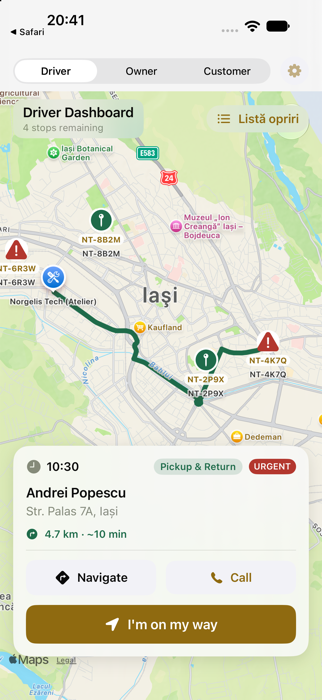
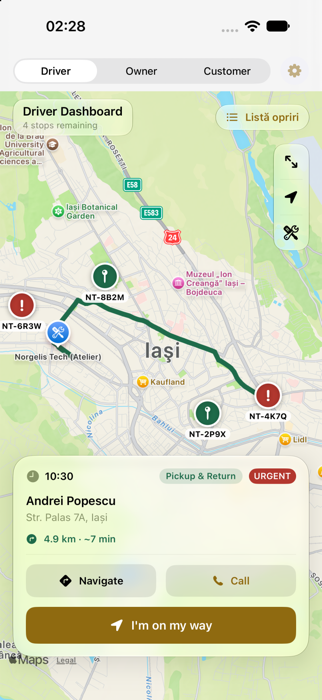
Document the owner console and refresh screenshots

diff --git a/ios/README.md b/ios/README.md
@@ -105,12 +105,39 @@ ios/
 ## Driver navigation
 
 - The map draws the real driving route (Apple Maps directions) from the workshop to the next stop, or from the driver's position to the stop in progress. The card shows distance and travel time.
+- The bottom card is native Liquid Glass on iOS 26 and later and a light material before that. Stop pins are round: green for a stop, red with an exclamation mark when urgent, grey with a check when done.
+- Three buttons under the top bar fit the route, center on the driver or center on the workshop.
 - **Navigate** opens a menu with Waze and Apple Maps. Waze starts turn-by-turn through `waze://`. When Waze is not installed it opens the `waze.com/ul` link, which offers the App Store. `LSApplicationQueriesSchemes` lists `waze` so the app can check for it.
 - Navigate is on the map card, on the active trip card and in the stop detail sheet.
 
+## Owner console
+
+The Owner role opens the workshop console. It mirrors the `/admin` dashboard on the site, including the workshop features from PR 6.
+
+| Tab | What it does |
+| --- | --- |
+| Today | Counts (active, to hand back, visits, pickups), today's schedule, today's pickups, jobs waiting for hand-back, the driver card and a New walk-in button. |
+| Jobs | Search, status chips (with "to hand back" for ready and unrepairable), kind filter (workshop, pickup, on site). Tap a job for the work order. |
+| Customers | Search, archived list, create and edit, company details, a customer's jobs and warranties. Archiving is for owners. |
+| Schedule | Week strip with busy dots, the day's visits, and the day's pickups with Navigate (Waze or Apple Maps), call and the transport total. |
+| More | Warranties (issue, void, share PDF), Stats and Workshop settings (owners only), role preview and the data source switch. |
+
+The work order covers status including `unrepairable`, an internal note, whether to email the customer, the price charged (owners only), the service sheet (take the device in, edit it), repair notes, the customer, pickup details, the warranty and the status history. A walk-in creates a customer if needed, a job and a numbered service sheet in one step.
+
+Roles follow the server. A technician works on devices and never sees `finalLei`, Stats or Settings. Owners and devs see everything. In the live API mode the role comes from `GET /api/me`.
+
+### Data sources
+
+`OwnerRepository` has two implementations.
+
+- **Sample data** (default). `MockOwnerRepository` keeps believable data around today's date in memory. Every flow works offline, and changes vanish on restart. More → Preview as switches the role.
+- **Live API.** Turn off Sample data, set the base URL in Dev settings, and paste a Better Auth session cookie into the Session cookie field. The cookie stays on the phone (UserDefaults) and never enters git. Without it the admin routes answer 401.
+
+Not built yet. Intake photo capture and viewing (the count shows), and push notifications. PDFs (service sheet, warranty) download and share only against the live API, since the server makes them.
+
 ## Screenshots
 
-`docs/screenshots/` holds simulator captures: `driver.png` (route and Navigate), `owner.png`, `customer.png` and `home-icon.png` (the app icon on the home screen).
+`docs/screenshots/` holds simulator captures. `driver.png` shows the route, Navigate and recenter buttons on Liquid Glass. `console-today.png`, `console-schedule.png`, `console-stats.png` and `console-job.png` show the owner console. `customer.png` and `home-icon.png` show the customer lookup and the app icon.
 
 ## Look and feel
 
